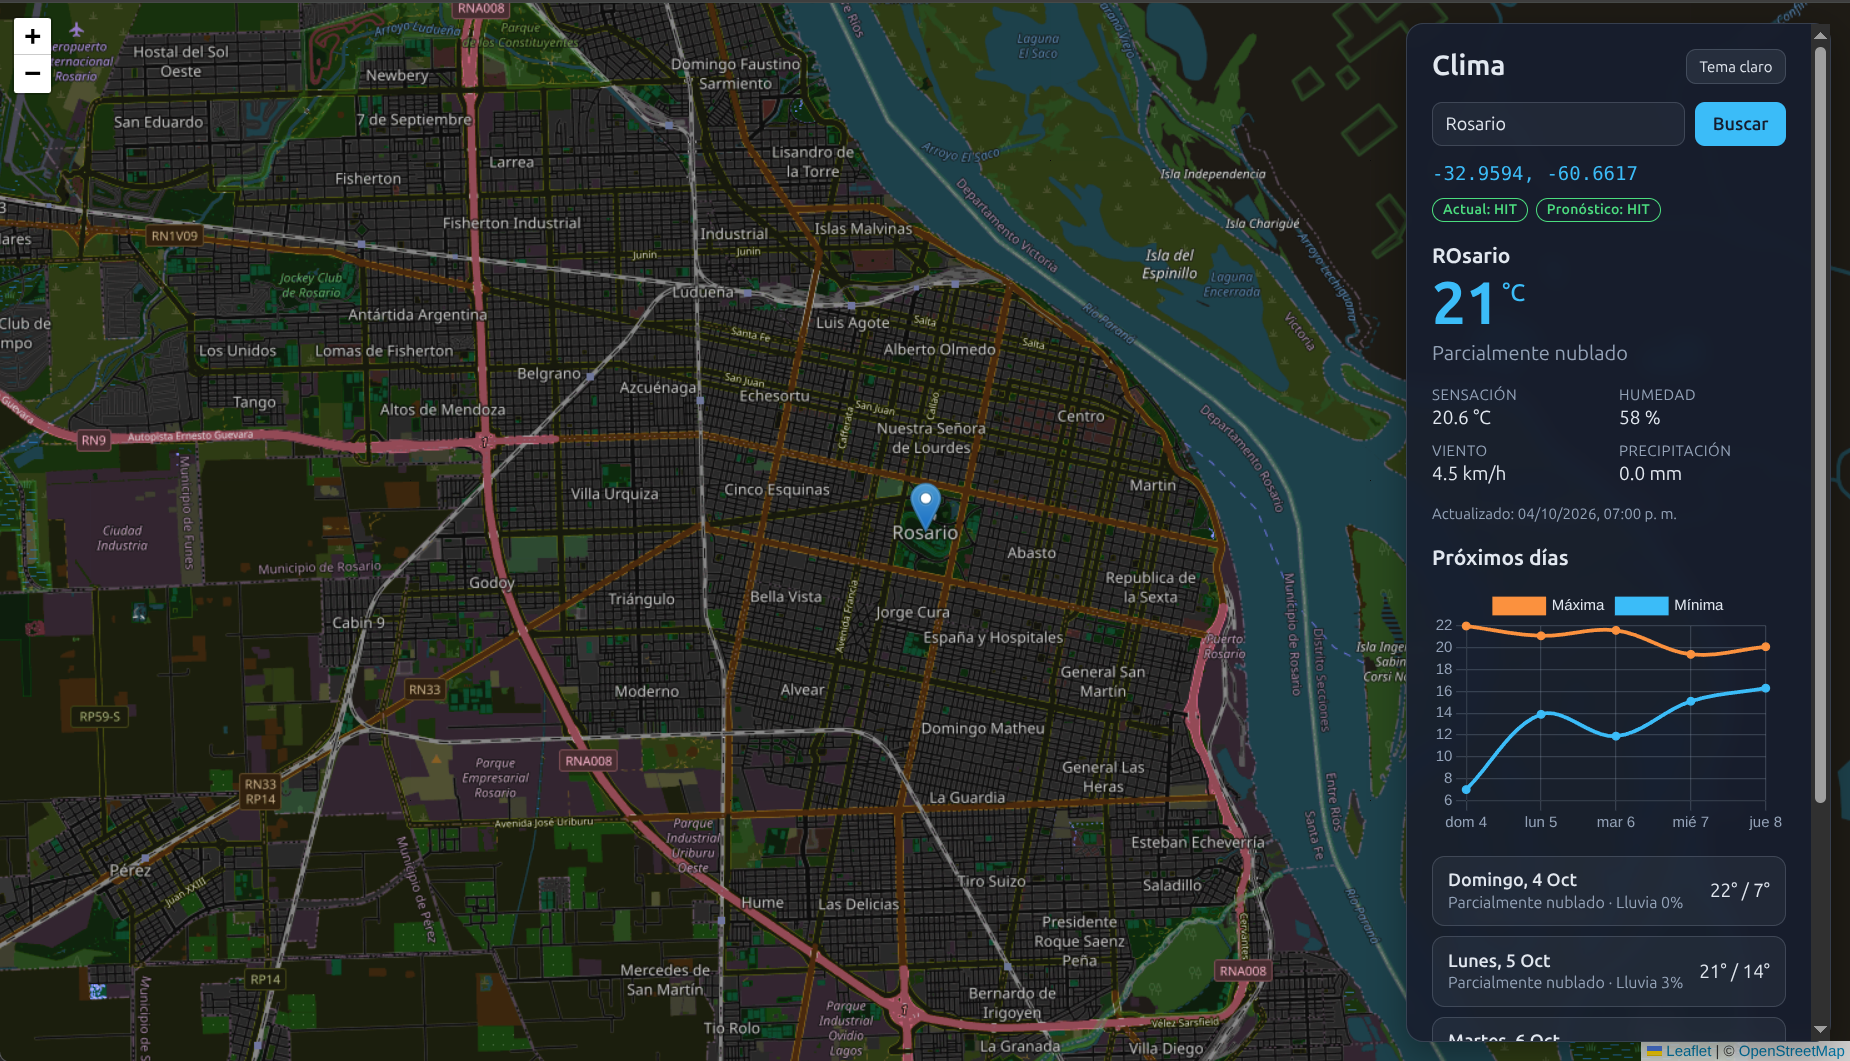
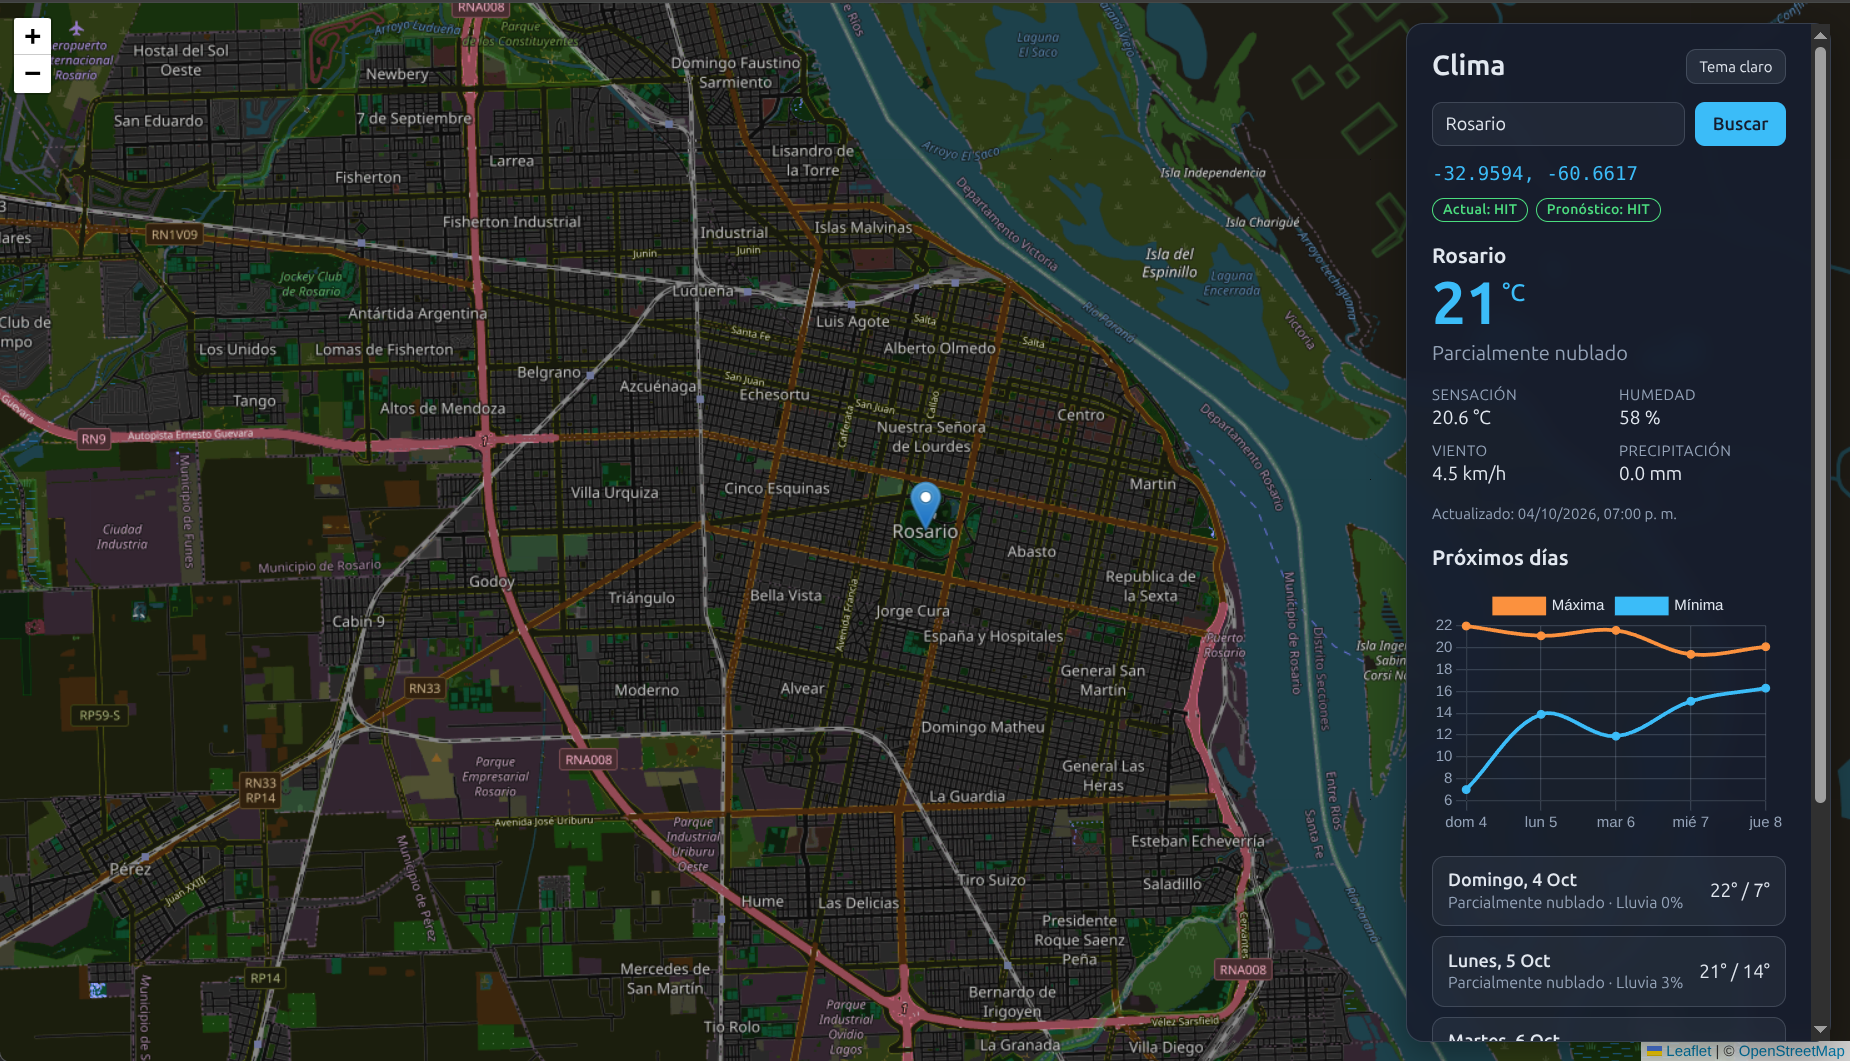
feat: normalizar nombres de lugares y documentar decisiones técnicas
- text.js: formatPlaceName capitaliza nombres y respeta siglas y partículas
- main.js: normaliza la ciudad buscada antes de geocodificar y consultar
- ui.js: normaliza el nombre que devuelve la API para mostrarlo
- README: agrega sección Decisiones técnicas y text.js en la estructura
- docs/screenshot.png: captura actualizada

diff --git a/js/text.js b/js/text.js
@@ -1,0 +1,51 @@
+/**
+ * Normalización de texto para nombres de lugares.
+ * Se usa tanto para lo que escribe el usuario como para lo que devuelve la
+ * API: el proveedor puede repetir la capitalización de la consulta (por
+ * ejemplo "ROsario") y esa respuesta queda guardada en la caché de la API.
+ */
+
+/** Partículas que van en minúscula dentro de un nombre, salvo al inicio. */
+const PARTICLES = new Set([
+  'de',
+  'del',
+  'la',
+  'las',
+  'los',
+  'y',
+  'e',
+  'en',
+  'da',
+  'do',
+  'dos',
+  'das',
+  'van',
+  'von',
+]);
+
+/**
+ * Normaliza un nombre de lugar: colapsa espacios y capitaliza cada palabra,
+ * dejando en minúscula las partículas ("San Nicolás de los Arroyos").
+ * Conserva las palabras de hasta 4 letras (siglas como "CABA" o "USA") y las
+ * que contienen puntos (abreviaturas como "EE.UU.").
+ *
+ * @param {string} value
+ * @returns {string}
+ */
+export function formatPlaceName(value) {
+  return value
+    .trim()
+    .replace(/\s+/g, ' ')
+    .split(' ')
+    .map((word, index) => {
+      if (word.includes('.') || word.length <= 4) {
+        return word;
+      }
+      const lower = word.toLocaleLowerCase('es');
+      if (index > 0 && PARTICLES.has(lower)) {
+        return lower;
+      }
+      return lower.charAt(0).toLocaleUpperCase('es') + lower.slice(1);
+    })
+    .join(' ');
+}

diff --git a/js/main.js b/js/main.js
@@ -17,6 +17,7 @@ import { CITY_ZOOM } from './config.js';
 import { geocodeCity } from './geocode.js';
 import { centerOn, getZoom, initMap, placeMarker, setMapTheme } from './map.js';
 import { loadLastLocation, saveLastLocation } from './storage.js';
+import { formatPlaceName } from './text.js';
 import {
   initTheme,
   renderCacheBadges,
@@ -101,11 +102,12 @@ initMap(async (lat, lon) => {
 searchForm.addEventListener('submit', async (event) => {
   event.preventDefault();
 
-  const city = searchInput.value.trim();
+  const city = formatPlaceName(searchInput.value);
   if (!city) {
     showError('Escribí el nombre de una ciudad para buscar.');
     return;
   }
+  searchInput.value = city; // Muestra el texto normalizado en el input.
 
   const queryKey = `city:${city.toLowerCase()}`;
   if (queryKey === lastQueryKey) {

diff --git a/js/ui.js b/js/ui.js
@@ -5,6 +5,7 @@
  */
 
 import { loadTheme, saveTheme } from './storage.js';
+import { formatPlaceName } from './text.js';
 
 const statusEl = document.querySelector('#status');
 const coordsEl = document.querySelector('#coords');
@@ -87,7 +88,7 @@ function messageForError(error) {
 export function renderCurrentWeather(data) {
   statusEl.classList.remove('panel__hint--error');
   statusEl.textContent = '';
-  locationEl.textContent = data.location;
+  locationEl.textContent = formatPlaceName(data.location);
   tempEl.textContent = Math.round(data.temperature_c);
   conditionsEl.textContent = data.conditions;
   feelsLikeEl.textContent = `${data.feels_like_c.toFixed(1)} °C`;

diff --git a/README.md b/README.md
@@ -1,20 +1,10 @@
 # Weather Dashboard
 
-Dashboard web estático que muestra el clima actual y el pronóstico de 5 días de
-una ubicación elegida en un mapa. Consume la **Weather API** (proyecto separado
-que envuelve Visual Crossing) y usa Leaflet y Chart.js por CDN, **sin frameworks,
-sin build y sin `node_modules`**: el objetivo es practicar `fetch`, DOM y el
-ciclo request/response.
+Dashboard web estático que muestra el clima actual y el pronóstico de 5 días de una ubicación elegida en un mapa. Consume la **Weather API** (proyecto separado que envuelve Visual Crossing) y usa Leaflet y Chart.js por CDN, **sin frameworks, sin build y sin `node_modules`**: el objetivo es practicar `fetch`, DOM y el ciclo request/response.
 
-> Repo de la API: _pendiente de publicar_. Instrucciones para levantarla más abajo.
+> Repo de la API: https://github.com/FabricioPorcelli/weather-api. Instrucciones para levantarla más abajo.
 
-<!--
-Para agregar una captura:
-1. Abrí el dashboard y sacá una captura de pantalla.
-2. Guardala como docs/screenshot.png.
-3. Descomentá la línea de abajo.
 ![Captura del dashboard](docs/screenshot.png)
--->
 
 ## Funcionalidades
 
@@ -33,7 +23,21 @@ Para agregar una captura:
 - HTML, CSS y JavaScript vanilla con **ES Modules**.
 - [Leaflet 1.9.4](https://leafletjs.com/) (mapa) y [Chart.js 4.4.7](https://www.chartjs.org/) (gráfico), por CDN.
 - [Nominatim](https://nominatim.org/) (OpenStreetMap) para convertir nombres de ciudades en coordenadas.
-- [Weather API](http://localhost:8000/docs) local (FastAPI + Redis) como fuente de datos.
+- [Weather API](https://github.com/FabricioPorcelli/weather-api) (FastAPI + Redis) como fuente de datos, corriendo en `localhost:8000`.
+
+## Decisiones técnicas
+
+- **Sin frameworks ni build**: HTML, CSS y JavaScript vanilla con ES Modules;
+  el foco está en el ciclo request/response y el DOM, no en herramientas.
+- **Coordenadas redondeadas y dedupe**: se redondea a 2 decimales (igual que la
+  API) y no se repite el request si el punto no cambió; así se aprovecha la
+  caché y se cuida el rate limit.
+- **Errores por código HTTP**: la UI traduce 404, 422, 429, 502, 504 y caída de
+  la API a mensajes claros, y descarta respuestas viejas con un `requestId`.
+- **APIs públicas con respeto**: Nominatim se consulta solo con acción explícita
+  del usuario, con caché en memoria y espera de 1 req/s según su política.
+- **Separación por módulos**: `api`, `geocode`, `map`, `chart`, `ui`, `storage`
+  y `main` con una única dirección de dependencias; la UI no conoce detalles de HTTP.
 
 ## Requisitos
 
@@ -112,6 +116,7 @@ weather-dashboard/
 │   ├── config.js   # constantes compartidas
 │   ├── storage.js  # persistencia en localStorage (tema y última ubicación)
 │   ├── api.js      # fetch a la Weather API, errores tipados y X-Cache
+│   ├── text.js     # normalización de nombres de lugares
 │   ├── geocode.js  # búsqueda de ciudades en Nominatim
 │   ├── map.js      # Leaflet: mapa, marcador, recentrado y tema de los tiles
 │   ├── chart.js    # gráfico de máximas/mínimas con Chart.js
@@ -144,14 +149,15 @@ dashboard muestra en pantalla.
 - **`localStorage`**: `weather-dashboard:theme` y
   `weather-dashboard:last-location`. Borralas para volver al estado inicial.
 
-## Deploy (futuro)
+## Despliegue
 
-El dashboard es estático: puede publicarse gratis en GitHub Pages, Netlify o
-Vercel. Requiere:
+El dashboard es estático y puede publicarse gratis en GitHub Pages, Netlify o
+Vercel. Para que funcione en un dominio público:
 
-1. La Weather API hosteada en un dominio público.
-2. `CORS_ORIGINS` de la API apuntando al dominio real del dashboard.
+1. Hostear la Weather API (Render, Railway, Fly.io, etc.).
+2. Setear `CORS_ORIGINS` en la API con el dominio real del dashboard.
+3. Apuntar `API_BASE_URL` en `js/config.js` al dominio de la API.
 
-Si en el futuro la API pide autenticación, un frontend estático no puede
-guardar la API key (todo lo que llega al navegador es visible): haría falta un
-backend-for-frontend o tokens de corta vida.
+La `WEATHER_API_KEY` vive únicamente en el backend de la API: al ser un
+frontend estático, todo lo que llega al navegador es visible, así que ninguna
+credencial debe incluirse en este repo.
